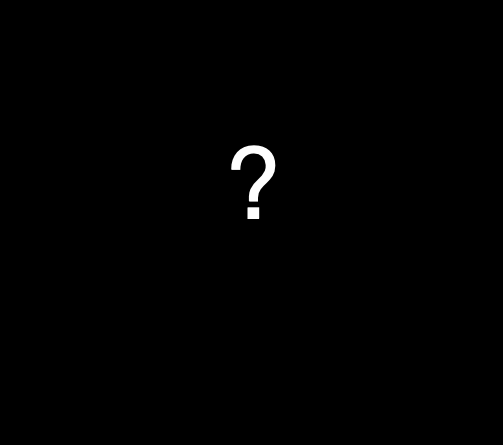
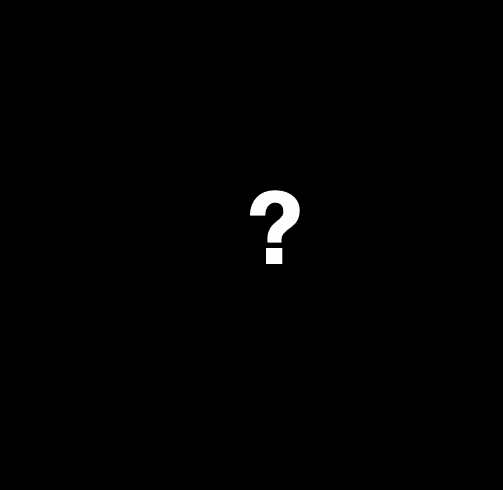
character description added

Changed region(s): [[0.4473, 0.3213, 0.5964, 0.5551]]

diff --git a/app.js b/app.js
@@ -85,11 +85,16 @@ const DisplayCharacter = props => {
     <img
       style={{
         position: "absolute",
-        margin: "12% 0 0 8%"
+        margin: "12.6% 0 0 8%"
       }}
       src={`./Assets/${props.character}.png`}
     />
   );
+};
+
+//secription funtional component
+const Description = props => {
+  return <p>{props.description}</p>;
 };
 
 //----------------
@@ -108,15 +113,21 @@ class CharacterShowcase extends React.Component {
       character: "question",
       subClasses: subClasses,
       subClass: null,
-      // bySubClass: bySubClass
       byGender: null,
       genders: genders,
-      gender: null
+      gender: null,
+      description:
+        "Heroes are the main playable characters in Save the World. There are currently four main classes of Heroes, which each have a number of sub classes. While every Hero in Fortnite can build, explore, and hold their own on the battlefield, each sub class has access to a unique set of Abilities and Traits that gives them a unique style of play."
     };
   }
 
   characterSelectedHandler = selectedCharacter => {
-    this.setState({ character: selectedCharacter });
+    const profile = window.CharactersClassification.profile[selectedCharacter];
+
+    this.setState({
+      character: selectedCharacter,
+      description: profile
+    });
   };
 
   subClassSelectedHandler = selectedSubClass => {
@@ -201,10 +212,16 @@ class CharacterShowcase extends React.Component {
         style={{
           width: "1280px",
           display: "flex",
-          flexDirection: "row"
+          flexDirection: "row",
+          justifyContent: "space-evenly"
         }}
       >
-        <div style={{ margin: "10% 8% 0% 0%" }}>
+        <div
+          style={{
+            margin: "5% 8% 0% 0%",
+            width: "8%"
+          }}
+        >
           <GenderSelector
             genders={this.state.genders}
             genderSelectedHandler={this.genderSelectedHandler}
@@ -218,12 +235,20 @@ class CharacterShowcase extends React.Component {
             characterSelectedHandler={this.characterSelectedHandler}
           />
         </div>
-        <div>
+        <div style={{ width: "60%" }}>
           <DisplayCharacter character={this.state.character} />
           <img
-            style={{ position: "relative", height: "115%", width: "75%" }}
+            style={{
+              position: "relative",
+              height: "115%",
+              width: "100%"
+            }}
             src="./Assets/frame.png"
           />
+        </div>
+        <div style={{ width: "10%", margin: "0% 0% 0% 4%" }}>
+          <h3>Description:</h3>
+          <Description description={this.state.description} />
         </div>
       </section>
     );

diff --git a/API.js b/API.js
@@ -68,5 +68,35 @@ window.CharactersClassification = {
     "Ranger_beetlejess",
     "Ragnarok_mythic",
     "Trailblaster_ac"
-  ]
+  ],
+
+  profile: {
+    Chromium_Ramirez:
+      "Uses high magazine weapons to build up attack speed and mow down enemies.",
+    Bullet_Storm_Jonesy:
+      "Uses high magazine weapons to build up attack speed and mow down enemies.",
+    Berserker_headhunter:
+      "Short range fighter, wants to get in close and fight, regardless of the consequences.",
+    Carbide:
+      "Radioactive soldier that puts both his affliction and technical arsenal to use in eradicating enemies.",
+    Quickdraw_Calamity:
+      "Gunslinger who only needs six shots to get the job done.",
+    Hazard_the_13th:
+      "Places upgraded DECOYS that damage enemies in addition to pulling them off the walls.",
+    Steel_wool_syd:
+      "Hits hard with hardware melee weapons to trigger a Kinetic Overload",
+    Sarah_claus:
+      "Gradually regenerates health through melee combat, and uses smoke bomb to heal allies.",
+    Energy_Thief_Mari:
+      "A skilled melee fighter who gains energy during melee combat for quick Dragon Slash recovery.",
+    The_Cloaked_Star:
+      "The Cloaked Star relies mostly on stealth and close combat.",
+    EnforcerOutfit:
+      "Masked ninja who showers enemies with Throwing Stars and explosive Kunai.",
+    Ranger_beetlejess:
+      "Mobile Combatant with Phase Shift and powerful pistol perks.",
+    Ragnarok_mythic: "The ground quaking harbinger of fate.",
+    Trailblaster_ac:
+      "Controls the battlefield by using Shock Tower and TEDDY to stun and slow enemies."
+  }
 };

diff --git a/style.css b/style.css
@@ -5,17 +5,16 @@ body {
 header {
   display: inline-flex;
   align-items: center;
-  /* border-bottom: 1px solid rgba(0, 0, 0, 0.25); */
 }
 
 #logo {
   margin: 0 0 1% 1%;
-  width: 12%;
-  height: 7%;
+  width: 15%;
+  height: 10%;
 }
 
 #header-font {
-  margin-left: 22%;
+  margin-left: 23%;
 }
 
 section {

diff --git a/index.html b/index.html
@@ -30,10 +30,7 @@
       /></a>
     </header>
 
-    <section>
-      <div id="react-root"></div>
-      <!-- <img id="character" src="./Assets/female/Sarah_claus.png" /> -->
-    </section>
+    <section><div id="react-root"></div></section>
 
     <!-- React Tags -->
     <script
